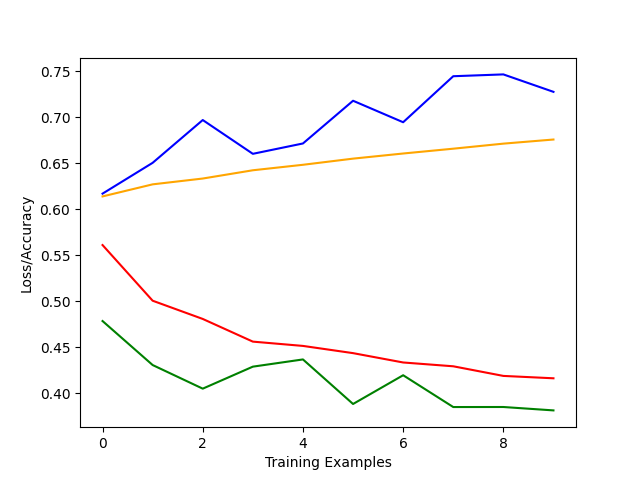
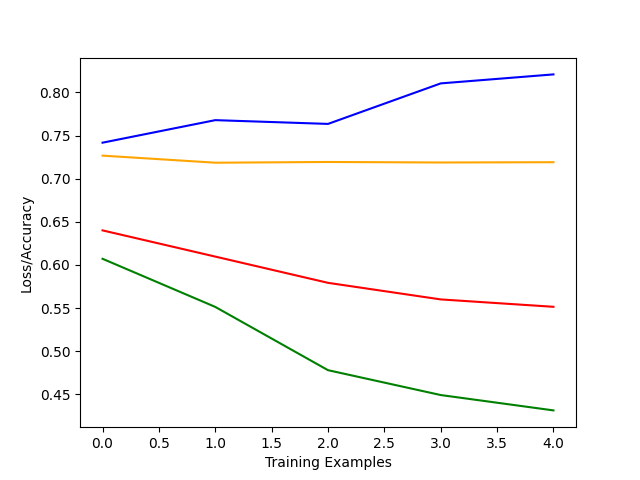
Added one conv layer model

diff --git a/model.py b/model.py
@@ -36,6 +36,27 @@ class PreliminaryModel(nn.Module):
         # output = F.log_softmax(x, dim = 1)
         return x
 
+#Preliminary Model of 2 Convolutional Layers
+class OneModel(nn.Module):
+    def __init__(self):
+        super(OneModel, self).__init__()
+        # Conv2D: 1 input channel, 8 output channels, 3 by 3 kernel, stride of 1.
+        self.conv1 = nn.Conv2d(1, 4, 3, 1)
+        self.maxpool_1 = nn.MaxPool2d(2,2)
+        self.fc1 = nn.Linear(21904, 2)
+
+    def forward(self, x):
+        x = self.conv1(x)
+        x = F.relu(x)
+        x = self.maxpool_1(x)
+        x = torch.flatten(x, 1)
+        # print(x.shape)
+        x = self.fc1(x)
+        # x = x.view((x.size(0),-1))
+        # output = F.log_softmax(x, dim = 1)
+        return x
+
+
 #Low Pass filter before Preliminary model
 class LowPassModel(nn.Module):
     def __init__(self):
@@ -105,12 +126,12 @@ def train(infect_trainloader, infect_testloader, covid_trainloader, covid_testlo
     print("Training Binary Classifier model for Infected")
 
     #Create model, optimizer and criterion
-    model_infect = PreliminaryModel()
+    model_infect = OneModel()
     optimizer = optim.Adam(model_infect.parameters(),lr=0.001)
     criterion = nn.CrossEntropyLoss()
     
     #Train the model
-    # train_model(model_infect, optimizer, criterion, infect_trainloader, infect_testloader, epochs)
+    train_model(model_infect, optimizer, criterion, infect_trainloader, infect_testloader, epochs)
 
     #Freeze the parameters in the infection model to train the covid model
     for params in model_infect.parameters():
@@ -212,7 +233,7 @@ def train_model(model, optimizer, criterion, trainloader, testloader, epochs, co
             )
 
             #Calculating test loss and test fbeta scores on test set
-            test_loss, test_fbeta = validation(model, testloader, criterion, covid, beta=beta)
+            test_loss, test_fbeta = validation(model, testloader, criterion, covid=covid, beta=beta)
 
             #Printing losses and fbeta scores
             print("Epoch: {}/{} - ".format(e+1, epochs),
@@ -307,11 +328,14 @@ dataset_dir = './dataset'
 
 ld_train = Lung_Train_Dataset(dataset_dir, covid = None)
 trainloader = DataLoader(ld_train, batch_size = 64, shuffle = True)
+
 ld_test = Lung_Test_Dataset(dataset_dir, covid = None)
 testloader = DataLoader(ld_test, batch_size = 64, shuffle = True)
+
 ld_train_c = Lung_Train_Dataset(dataset_dir, covid = True)
 trainloader_c = DataLoader(ld_train_c, batch_size = 64, shuffle = True)
+
 ld_test_c = Lung_Test_Dataset(dataset_dir, covid = True)
 testloader_c = DataLoader(ld_test_c, batch_size = 64, shuffle = True)
 
-train(trainloader, testloader, trainloader_c, testloader_c,  epochs = 10)
+train(trainloader, testloader, trainloader_c, testloader_c,  epochs = 5)

diff --git a/dataset.py b/dataset.py
@@ -323,7 +323,6 @@ class Lung_Test_Dataset(Dataset):
 
         # see if dataset is being used for covid model
         if self.covid:
-            print(index)
             if index < max_num_noncovid:
                 class_val = 'non-covid'
                 infected_label = 1
